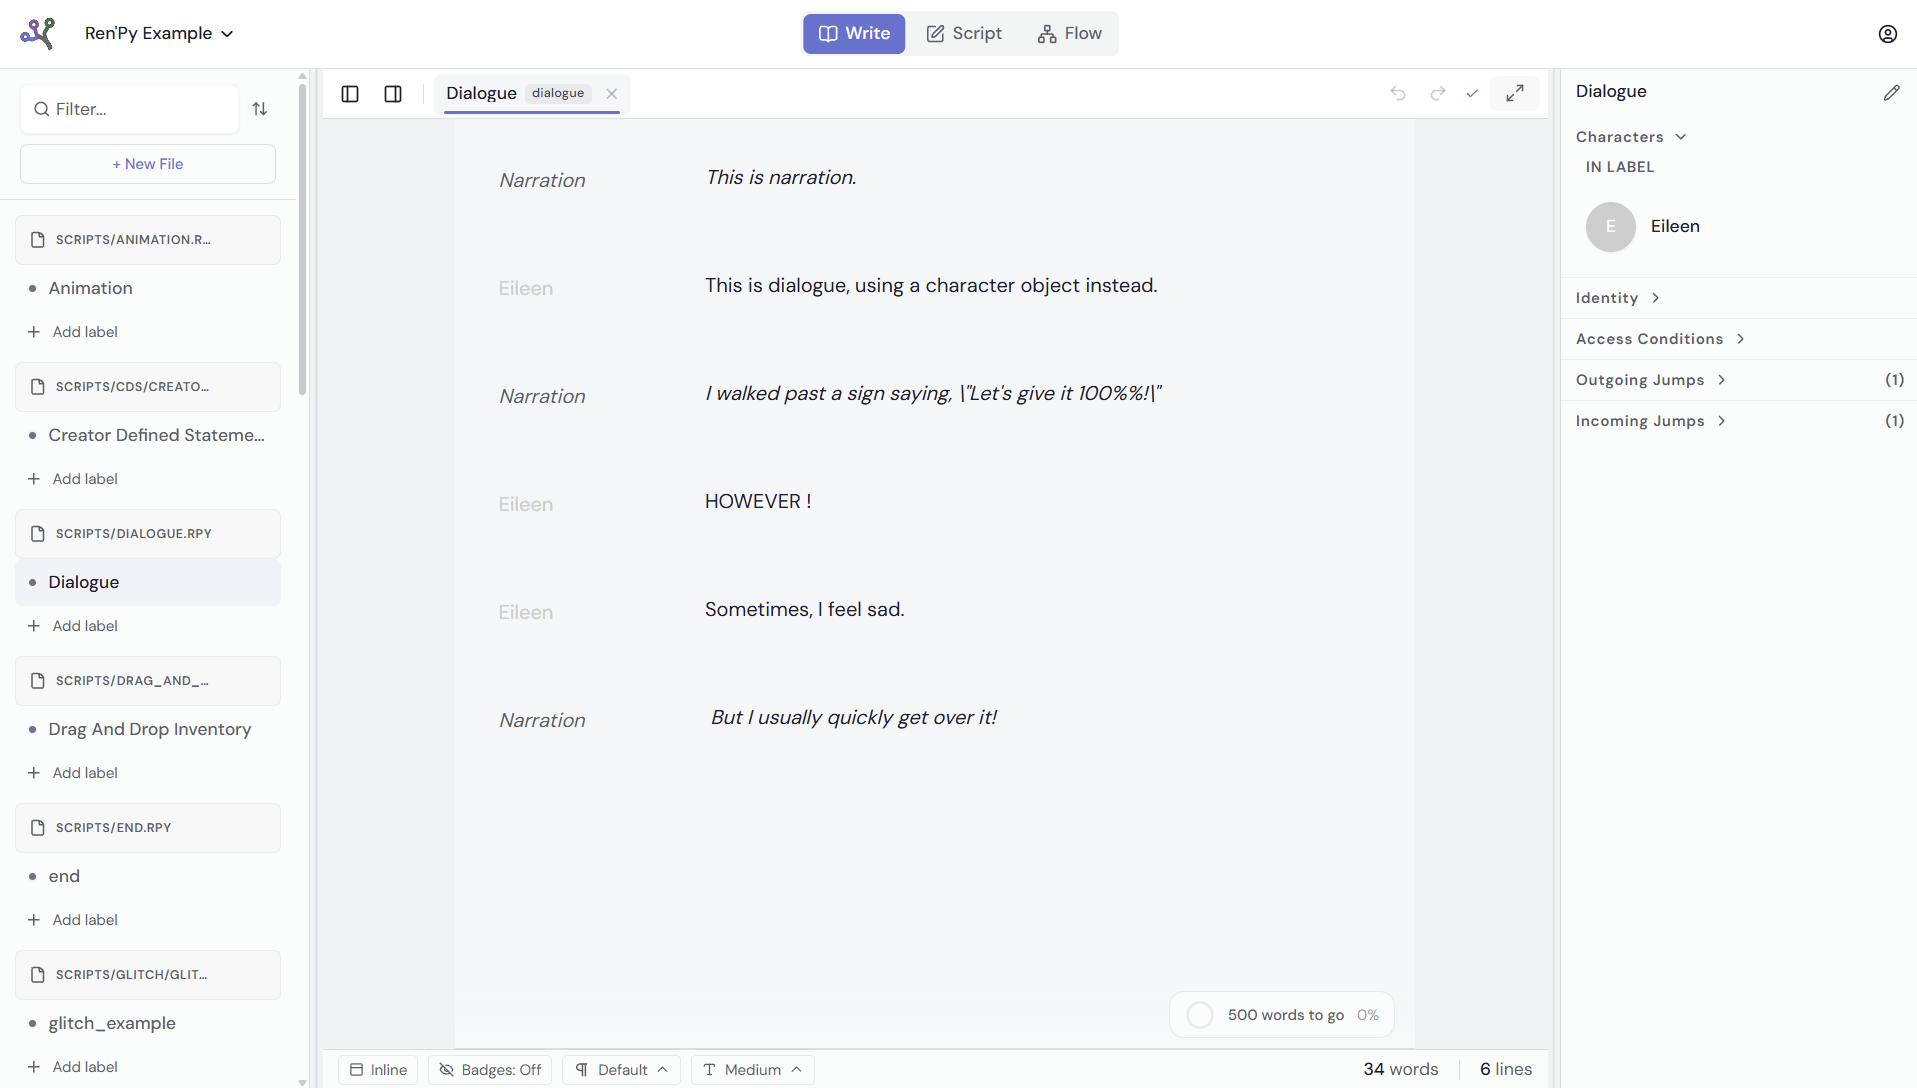
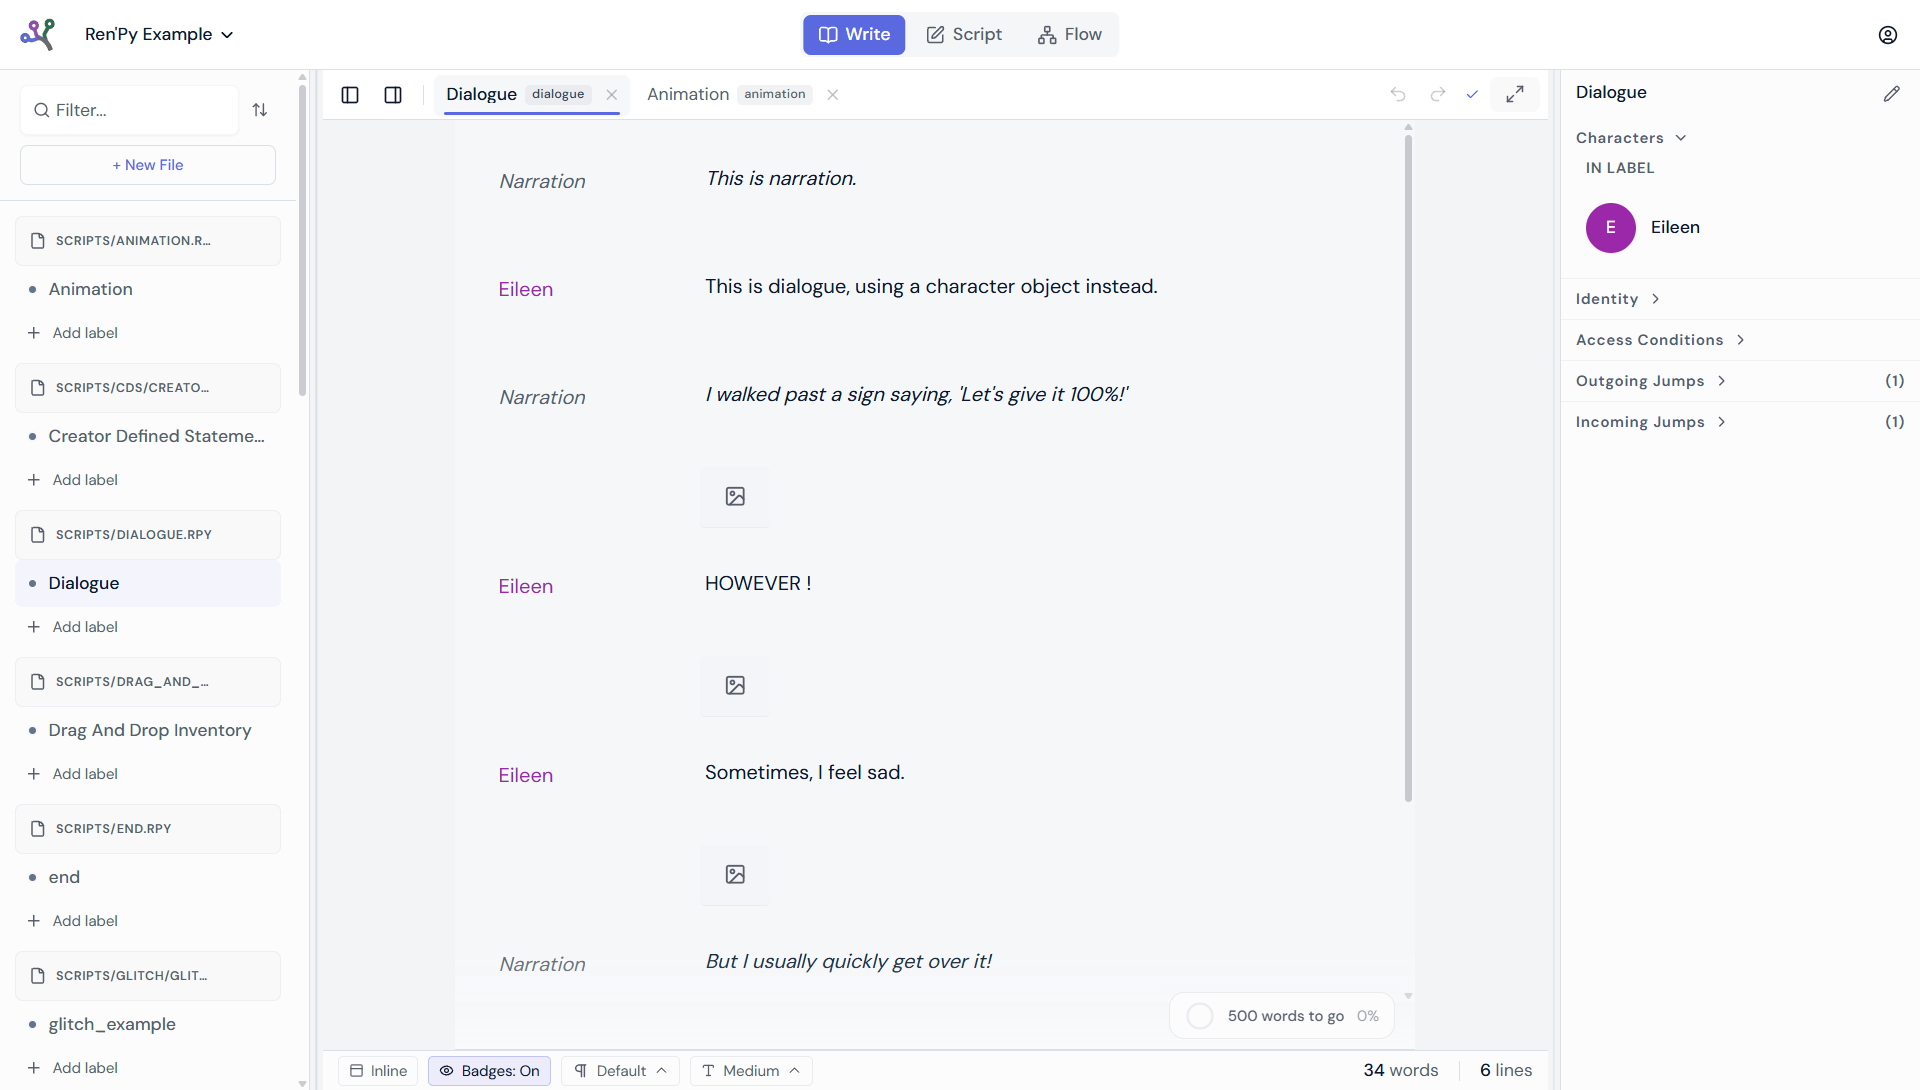
feat(docs): enhance screenshot functionality and styling in BranchForgeHome
- Introduced new screenshots for BranchForge's Flow and Script modes, along with updated images for Write mode in both dark and light themes.
- Refactored BranchForgeHome.vue to support dynamic screenshot rotation and improved accessibility features.
- Updated custom.css to enhance visual presentation and transition effects for screenshots.
- Added functionality to pause and resume screenshot rotation based on user interaction.

diff --git a/apps/docs/.vitepress/theme/components/BranchForgeHome.vue b/apps/docs/.vitepress/theme/components/BranchForgeHome.vue
@@ -1,5 +1,5 @@
 <script setup lang="ts">
-import { computed } from "vue";
+import { computed, onBeforeUnmount, onMounted, ref, watch } from "vue";
 import { useData, withBase } from "vitepress";
 
 const repoUrl = "https://github.com/mikkisguy/branchforge";
@@ -13,12 +13,106 @@ const scriptMode = withBase("/user/script-mode");
 const flowGraph = withBase("/user/flow-graph");
 const characters = withBase("/user/characters");
 const { isDark } = useData();
-const darkScreenshot = withBase("/images/branchforge-write-mode.png");
-const lightScreenshot = withBase("/images/branchforge-write-mode-light.png");
+
+const screenshots = [
+  {
+    label: "Write",
+    alt: "BranchForge Write mode showing a Ren'Py project loaded in the editor",
+    dark: withBase("/images/branchforge-write-mode.png"),
+    light: withBase("/images/branchforge-write-mode-light.png"),
+  },
+  {
+    label: "Script",
+    alt: "BranchForge Script mode showing the Ren'Py source editor",
+    dark: withBase("/images/branchforge-script-mode.png"),
+    light: withBase("/images/branchforge-script-mode-light.png"),
+  },
+  {
+    label: "Flow",
+    alt: "BranchForge Flow mode showing a Ren'Py story graph",
+    dark: withBase("/images/branchforge-flow-view.png"),
+    light: withBase("/images/branchforge-flow-view-light.png"),
+  },
+];
+
+const activeModeIndex = ref(0);
+const isPaused = ref(false);
+const isInView = ref(true);
+const reducedMotion = ref(false);
+const screenshotFigure = ref<HTMLElement | null>(null);
+const activeMode = computed(() => screenshots[activeModeIndex.value]);
 const screenshot = computed(() =>
-  isDark.value ? darkScreenshot : lightScreenshot
+  isDark.value ? activeMode.value.dark : activeMode.value.light
 );
-const screenshotHeight = computed(() => (isDark.value ? 1085 : 1088));
+
+let rotationTimer: ReturnType<typeof setTimeout> | undefined;
+let observer: IntersectionObserver | undefined;
+let motionQuery: MediaQueryList | undefined;
+let updateMotionPreference: (() => void) | undefined;
+
+const clearRotation = () => {
+  if (rotationTimer) {
+    clearTimeout(rotationTimer);
+    rotationTimer = undefined;
+  }
+};
+
+const scheduleRotation = () => {
+  clearRotation();
+
+  if (isPaused.value || !isInView.value || reducedMotion.value) {
+    return;
+  }
+
+  rotationTimer = setTimeout(() => {
+    activeModeIndex.value = (activeModeIndex.value + 1) % screenshots.length;
+    scheduleRotation();
+  }, 5000);
+};
+
+const togglePause = () => {
+  isPaused.value = !isPaused.value;
+};
+
+watch([isPaused, isInView, reducedMotion], scheduleRotation);
+
+onMounted(() => {
+  motionQuery = window.matchMedia("(prefers-reduced-motion: reduce)");
+  updateMotionPreference = () => {
+    reducedMotion.value = motionQuery?.matches ?? false;
+  };
+
+  updateMotionPreference();
+  motionQuery.addEventListener("change", updateMotionPreference);
+
+  for (const mode of screenshots) {
+    for (const source of [mode.dark, mode.light]) {
+      const image = new Image();
+      image.src = source;
+    }
+  }
+
+  observer = new IntersectionObserver(
+    ([entry]) => {
+      isInView.value = entry.isIntersecting;
+    },
+    { threshold: 0.25 }
+  );
+
+  if (screenshotFigure.value) {
+    observer.observe(screenshotFigure.value);
+  }
+
+  scheduleRotation();
+});
+
+onBeforeUnmount(() => {
+  clearRotation();
+  observer?.disconnect();
+  if (updateMotionPreference) {
+    motionQuery?.removeEventListener("change", updateMotionPreference);
+  }
+});
 </script>
 
 <template>
@@ -50,25 +144,44 @@ const screenshotHeight = computed(() => (isDark.value ? 1085 : 1088));
       </div>
     </section>
 
-    <figure class="bf-screenshot" aria-labelledby="screenshot-caption">
+    <figure
+      ref="screenshotFigure"
+      class="bf-screenshot"
+      aria-labelledby="screenshot-caption"
+    >
       <a
         :href="screenshot"
         target="_blank"
         rel="noopener noreferrer"
-        aria-label="Open full-resolution screenshot"
+        :aria-label="`Open full-resolution ${activeMode.label} mode screenshot`"
       >
-        <img
-          :src="screenshot"
-          alt="BranchForge Write mode showing a Ren'Py project loaded in the editor"
-          width="1917"
-          :height="screenshotHeight"
-        />
+        <Transition name="bf-screenshot-fade">
+          <img
+            :key="screenshot"
+            :src="screenshot"
+            :alt="activeMode.alt"
+            width="1920"
+            height="1090"
+          />
+        </Transition>
       </a>
       <figcaption id="screenshot-caption">
-        Demo project
-        <a :href="demoProjectUrl" target="_blank" rel="noopener noreferrer"
-          >Ren'Py Examples by remarkablegames</a
-        >, MIT.
+        <span>{{ activeMode.label }} mode</span>
+        <button
+          v-if="!reducedMotion"
+          type="button"
+          class="bf-screenshot-toggle"
+          :aria-pressed="isPaused"
+          @click="togglePause"
+        >
+          {{ isPaused ? "Play sequence" : "Pause sequence" }}
+        </button>
+        <span>
+          Demo project
+          <a :href="demoProjectUrl" target="_blank" rel="noopener noreferrer"
+            >Ren'Py Examples by remarkablegames</a
+          >, MIT.
+        </span>
       </figcaption>
     </figure>
 

diff --git a/apps/docs/.vitepress/theme/custom.css b/apps/docs/.vitepress/theme/custom.css
@@ -185,7 +185,7 @@ html.dark .bf-home {
 }
 
 .bf-screenshot > a {
-  display: block;
+  display: grid;
   overflow: hidden;
   border: 1px solid var(--border);
   border-radius: 0.75rem;
@@ -194,10 +194,22 @@ html.dark .bf-home {
 }
 
 .bf-screenshot img {
+  grid-area: 1 / 1;
   width: 100%;
   height: auto;
   display: block;
   transition: opacity 180ms ease;
+}
+
+.bf-screenshot-fade-enter-active,
+.bf-screenshot-fade-leave-active {
+  transition: opacity 480ms cubic-bezier(0.22, 1, 0.36, 1);
+  will-change: opacity;
+}
+
+.bf-screenshot-fade-enter-from,
+.bf-screenshot-fade-leave-to {
+  opacity: 0;
 }
 
 .bf-screenshot a:hover img,
@@ -206,10 +218,34 @@ html.dark .bf-home {
 }
 
 .bf-screenshot figcaption {
+  display: flex;
+  flex-wrap: wrap;
+  justify-content: center;
+  gap: 0.35rem 0.75rem;
   margin-top: 0.75rem;
   color: var(--muted);
   font-size: 0.78rem;
   text-align: center;
+}
+
+.bf-screenshot-toggle {
+  padding: 0;
+  border: 0;
+  border-bottom: 1px solid currentColor;
+  background: transparent;
+  color: inherit;
+  font: inherit;
+  cursor: pointer;
+}
+
+.bf-screenshot-toggle:hover {
+  color: var(--brand);
+}
+
+.bf-screenshot-toggle:focus-visible {
+  outline: 2px solid var(--brand);
+  outline-offset: 3px;
+  border-radius: 1px;
 }
 
 .bf-screenshot figcaption a {
@@ -450,7 +486,9 @@ html.dark .bf-home {
   .bf-button,
   .bf-button svg,
   .bf-text-link svg,
-  .bf-screenshot img {
+  .bf-screenshot img,
+  .bf-screenshot-fade-enter-active,
+  .bf-screenshot-fade-leave-active {
     transition: none;
   }
 }

diff --git a/apps/docs/screenshot-checklist.md b/apps/docs/screenshot-checklist.md
@@ -13,32 +13,36 @@ project unless noted otherwise.
 
 **Viewport:** 1440×900 desktop unless a page specifies mobile.
 
-| Filename                           | Page / location                 | Theme          | Demo state notes                               |
-| ---------------------------------- | ------------------------------- | -------------- | ---------------------------------------------- |
-| `branchforge-write-mode.png`       | Docs home hero                  | Dark           | remarkablegames Ren'Py Example; Dialogue open  |
-| `branchforge-write-mode-light.png` | Docs home hero                  | Light          | remarkablegames Ren'Py Example; Dialogue open  |
-| `project-list.png`                 | Home → project list after login | Dark (default) | Docs demo project visible                      |
-| `write-mode-entry.png`             | Project → Write Mode            | Dark           | `start` label, dialogue visible                |
-| `write-mode-dialogue.png`          | Write Mode editor               | Dark           | Elena + Marcus lines in `start`                |
-| `write-mode-badges.png`            | Write Mode                      | Dark           | `elena_route_start` with trust condition badge |
-| `script-mode-editor.png`           | Script Mode                     | Dark           | `game/script.rpy` open                         |
-| `script-mode-file-tree.png`        | Script Mode file tree           | Dark           | `script.rpy` + `epilogue.rpy`                  |
-| `flow-mode.png`                    | Flow graph → FLOW layout        | Dark           | Full graph with split/rejoin                   |
-| `route-mode.png`                   | Flow graph → ROUTE layout       | Dark           | Elena + Marcus columns, shared center          |
-| `file-mode.png`                    | Flow graph → FILE layout        | Dark           | Two file columns                               |
-| `flow-node-drag.png`               | Flow graph (mid-drag)           | Dark           | One node offset from saved position            |
-| `flow-filters.png`                 | Flow graph filter panel         | Dark           | Route filter applied (Elena)                   |
-| `import-dialog.png`                | Settings → Zip Import           | Light          | File picker step                               |
-| `export-dialog.png`                | Project menu → Export           | Dark           | Export options visible                         |
-| `gitlab-sync.png`                  | Project settings → GitLab       | Dark           | Token + repo fields (redact token)             |
-| `character-list.png`               | Characters panel                | Dark           | Elena + Marcus                                 |
-| `dialogue-linking.png`             | Character detail → lines        | Dark           | Elena dialogue list                            |
-| `variables-list.png`               | Variables panel                 | Dark           | `chose_elena`, `met_marcus`                    |
-| `stats-list.png`                   | Stats panel                     | Dark           | `trust` stat for Elena                         |
-| `routes-config.png`                | Routes settings                 | Dark           | Elena + Marcus routes                          |
-| `world-bible.png`                  | World bible panel               | Dark           | Café Lantern entry                             |
-| `pair-groups.png`                  | Pair groups panel               | Dark           | Elena ↔ Marcus duo                             |
-| `settings-goals.png`               | User settings                   | Light          | Daily goal 500, Forest theme                   |
-| `file-management.png`              | Script Mode file menu           | Dark           | Rename/move/delete menu open                   |
+| Filename                            | Page / location                 | Theme          | Demo state notes                               |
+| ----------------------------------- | ------------------------------- | -------------- | ---------------------------------------------- |
+| `branchforge-flow-view.png`         | Docs home hero                  | Dark           | remarkablegames Ren'Py Example; Flow open      |
+| `branchforge-flow-view-light.png`   | Docs home hero                  | Light          | remarkablegames Ren'Py Example; Flow open      |
+| `branchforge-script-mode.png`       | Docs home hero                  | Dark           | remarkablegames Ren'Py Example; Script open    |
+| `branchforge-script-mode-light.png` | Docs home hero                  | Light          | remarkablegames Ren'Py Example; Script open    |
+| `branchforge-write-mode.png`        | Docs home hero                  | Dark           | remarkablegames Ren'Py Example; Dialogue open  |
+| `branchforge-write-mode-light.png`  | Docs home hero                  | Light          | remarkablegames Ren'Py Example; Dialogue open  |
+| `project-list.png`                  | Home → project list after login | Dark (default) | Docs demo project visible                      |
+| `write-mode-entry.png`              | Project → Write Mode            | Dark           | `start` label, dialogue visible                |
+| `write-mode-dialogue.png`           | Write Mode editor               | Dark           | Elena + Marcus lines in `start`                |
+| `write-mode-badges.png`             | Write Mode                      | Dark           | `elena_route_start` with trust condition badge |
+| `script-mode-editor.png`            | Script Mode                     | Dark           | `game/script.rpy` open                         |
+| `script-mode-file-tree.png`         | Script Mode file tree           | Dark           | `script.rpy` + `epilogue.rpy`                  |
+| `flow-mode.png`                     | Flow graph → FLOW layout        | Dark           | Full graph with split/rejoin                   |
+| `route-mode.png`                    | Flow graph → ROUTE layout       | Dark           | Elena + Marcus columns, shared center          |
+| `file-mode.png`                     | Flow graph → FILE layout        | Dark           | Two file columns                               |
+| `flow-node-drag.png`                | Flow graph (mid-drag)           | Dark           | One node offset from saved position            |
+| `flow-filters.png`                  | Flow graph filter panel         | Dark           | Route filter applied (Elena)                   |
+| `import-dialog.png`                 | Settings → Zip Import           | Light          | File picker step                               |
+| `export-dialog.png`                 | Project menu → Export           | Dark           | Export options visible                         |
+| `gitlab-sync.png`                   | Project settings → GitLab       | Dark           | Token + repo fields (redact token)             |
+| `character-list.png`                | Characters panel                | Dark           | Elena + Marcus                                 |
+| `dialogue-linking.png`              | Character detail → lines        | Dark           | Elena dialogue list                            |
+| `variables-list.png`                | Variables panel                 | Dark           | `chose_elena`, `met_marcus`                    |
+| `stats-list.png`                    | Stats panel                     | Dark           | `trust` stat for Elena                         |
+| `routes-config.png`                 | Routes settings                 | Dark           | Elena + Marcus routes                          |
+| `world-bible.png`                   | World bible panel               | Dark           | Café Lantern entry                             |
+| `pair-groups.png`                   | Pair groups panel               | Dark           | Elena ↔ Marcus duo                             |
+| `settings-goals.png`                | User settings                   | Light          | Daily goal 500, Forest theme                   |
+| `file-management.png`               | Script Mode file menu           | Dark           | Rename/move/delete menu open                   |
 
 Store captures under `apps/docs/public/images/` when added to the site.
